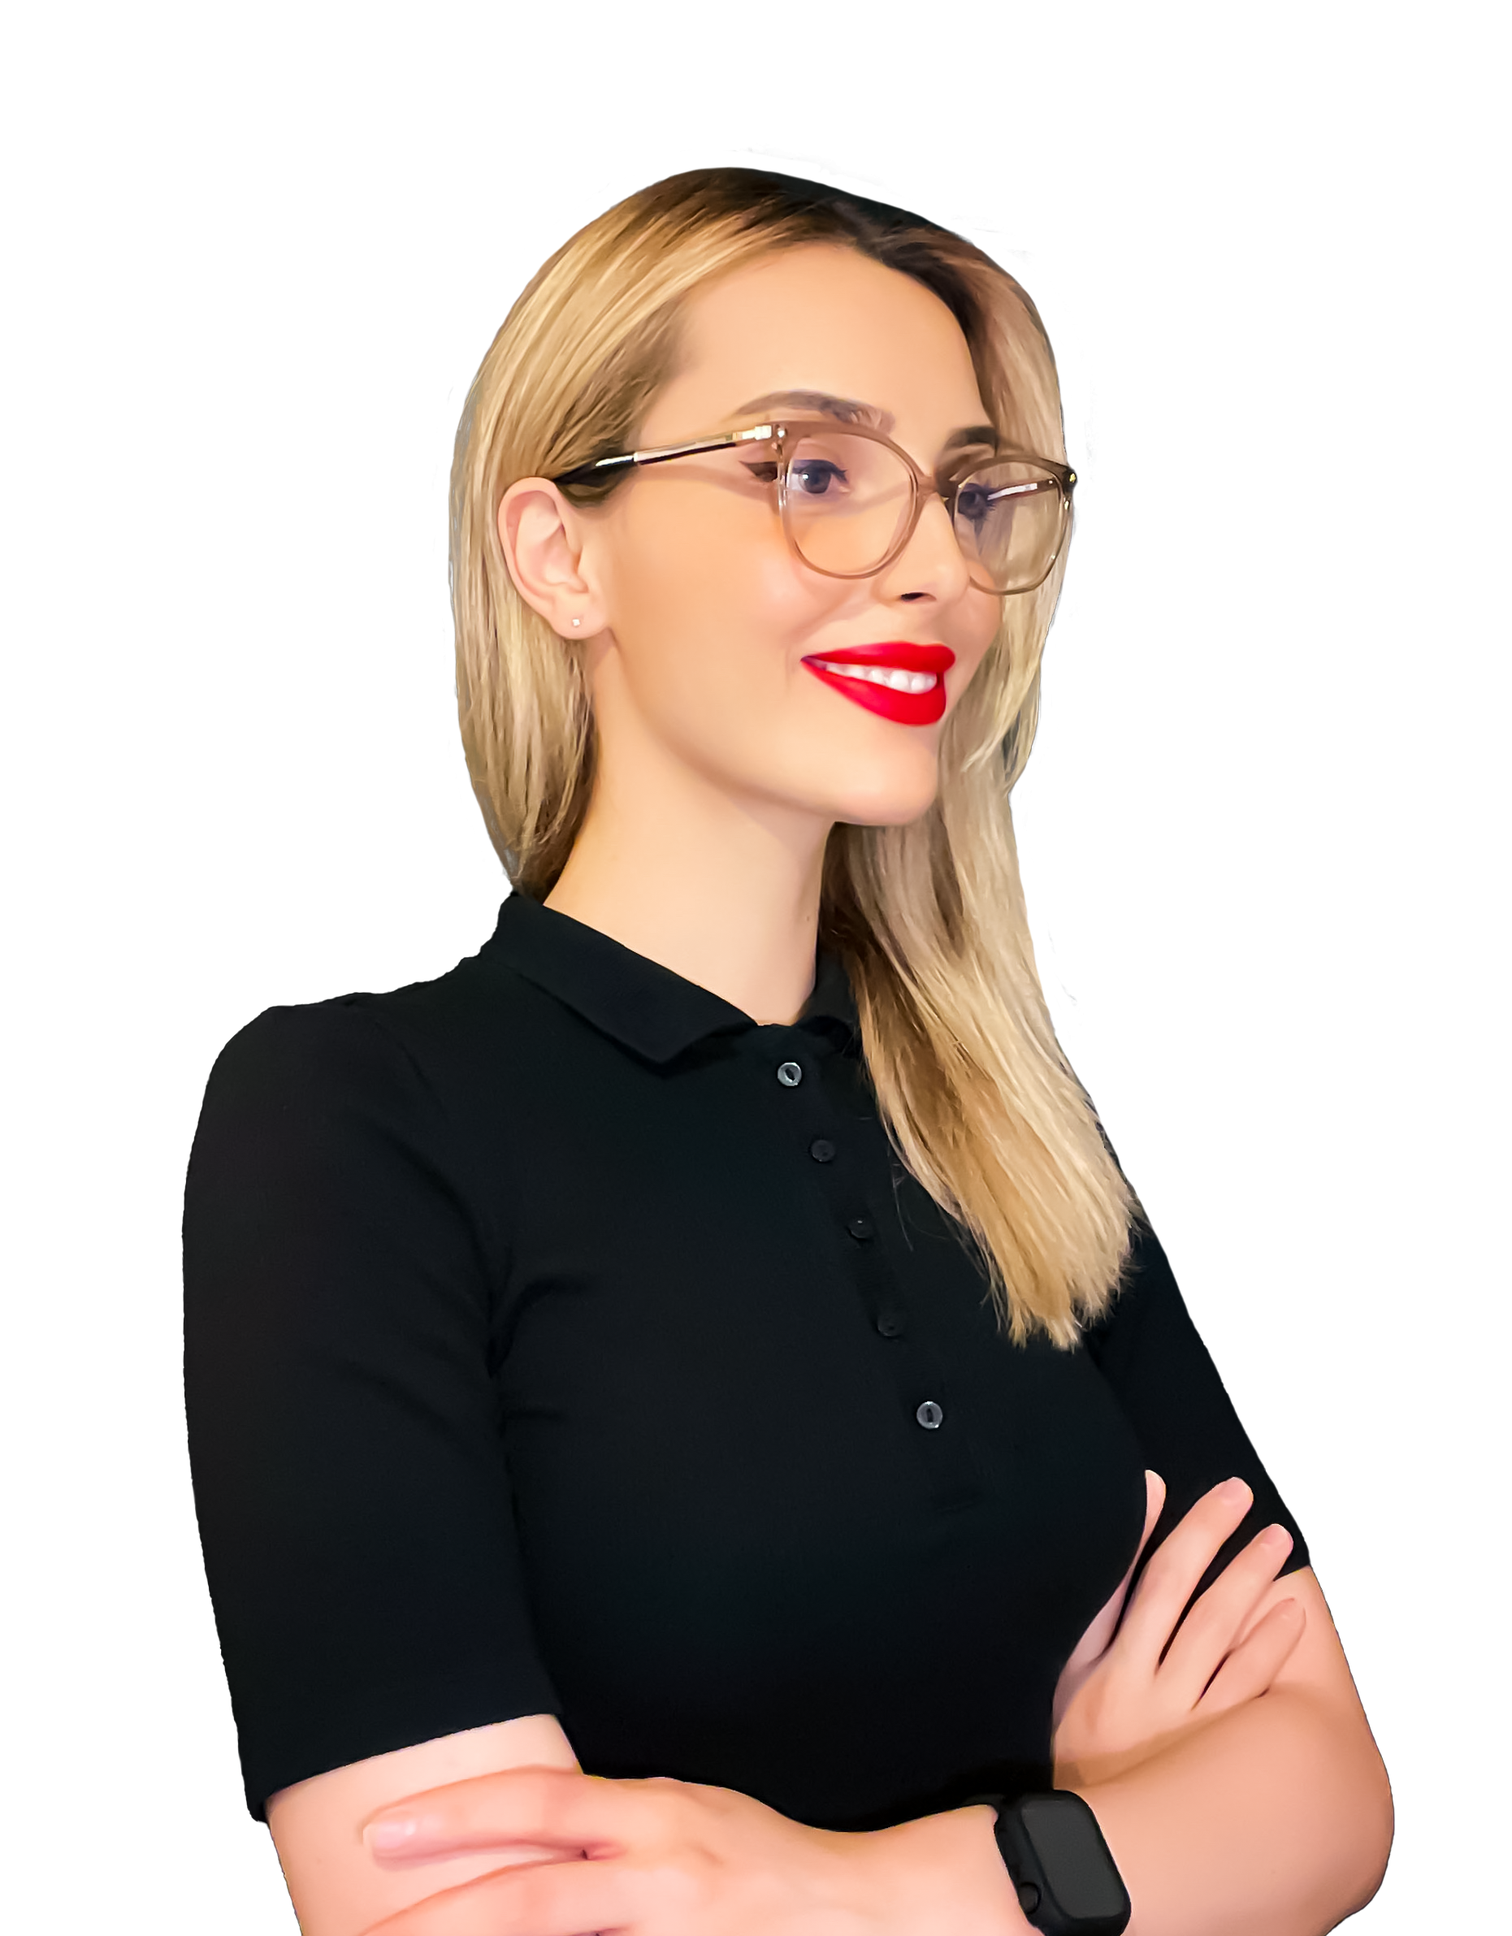
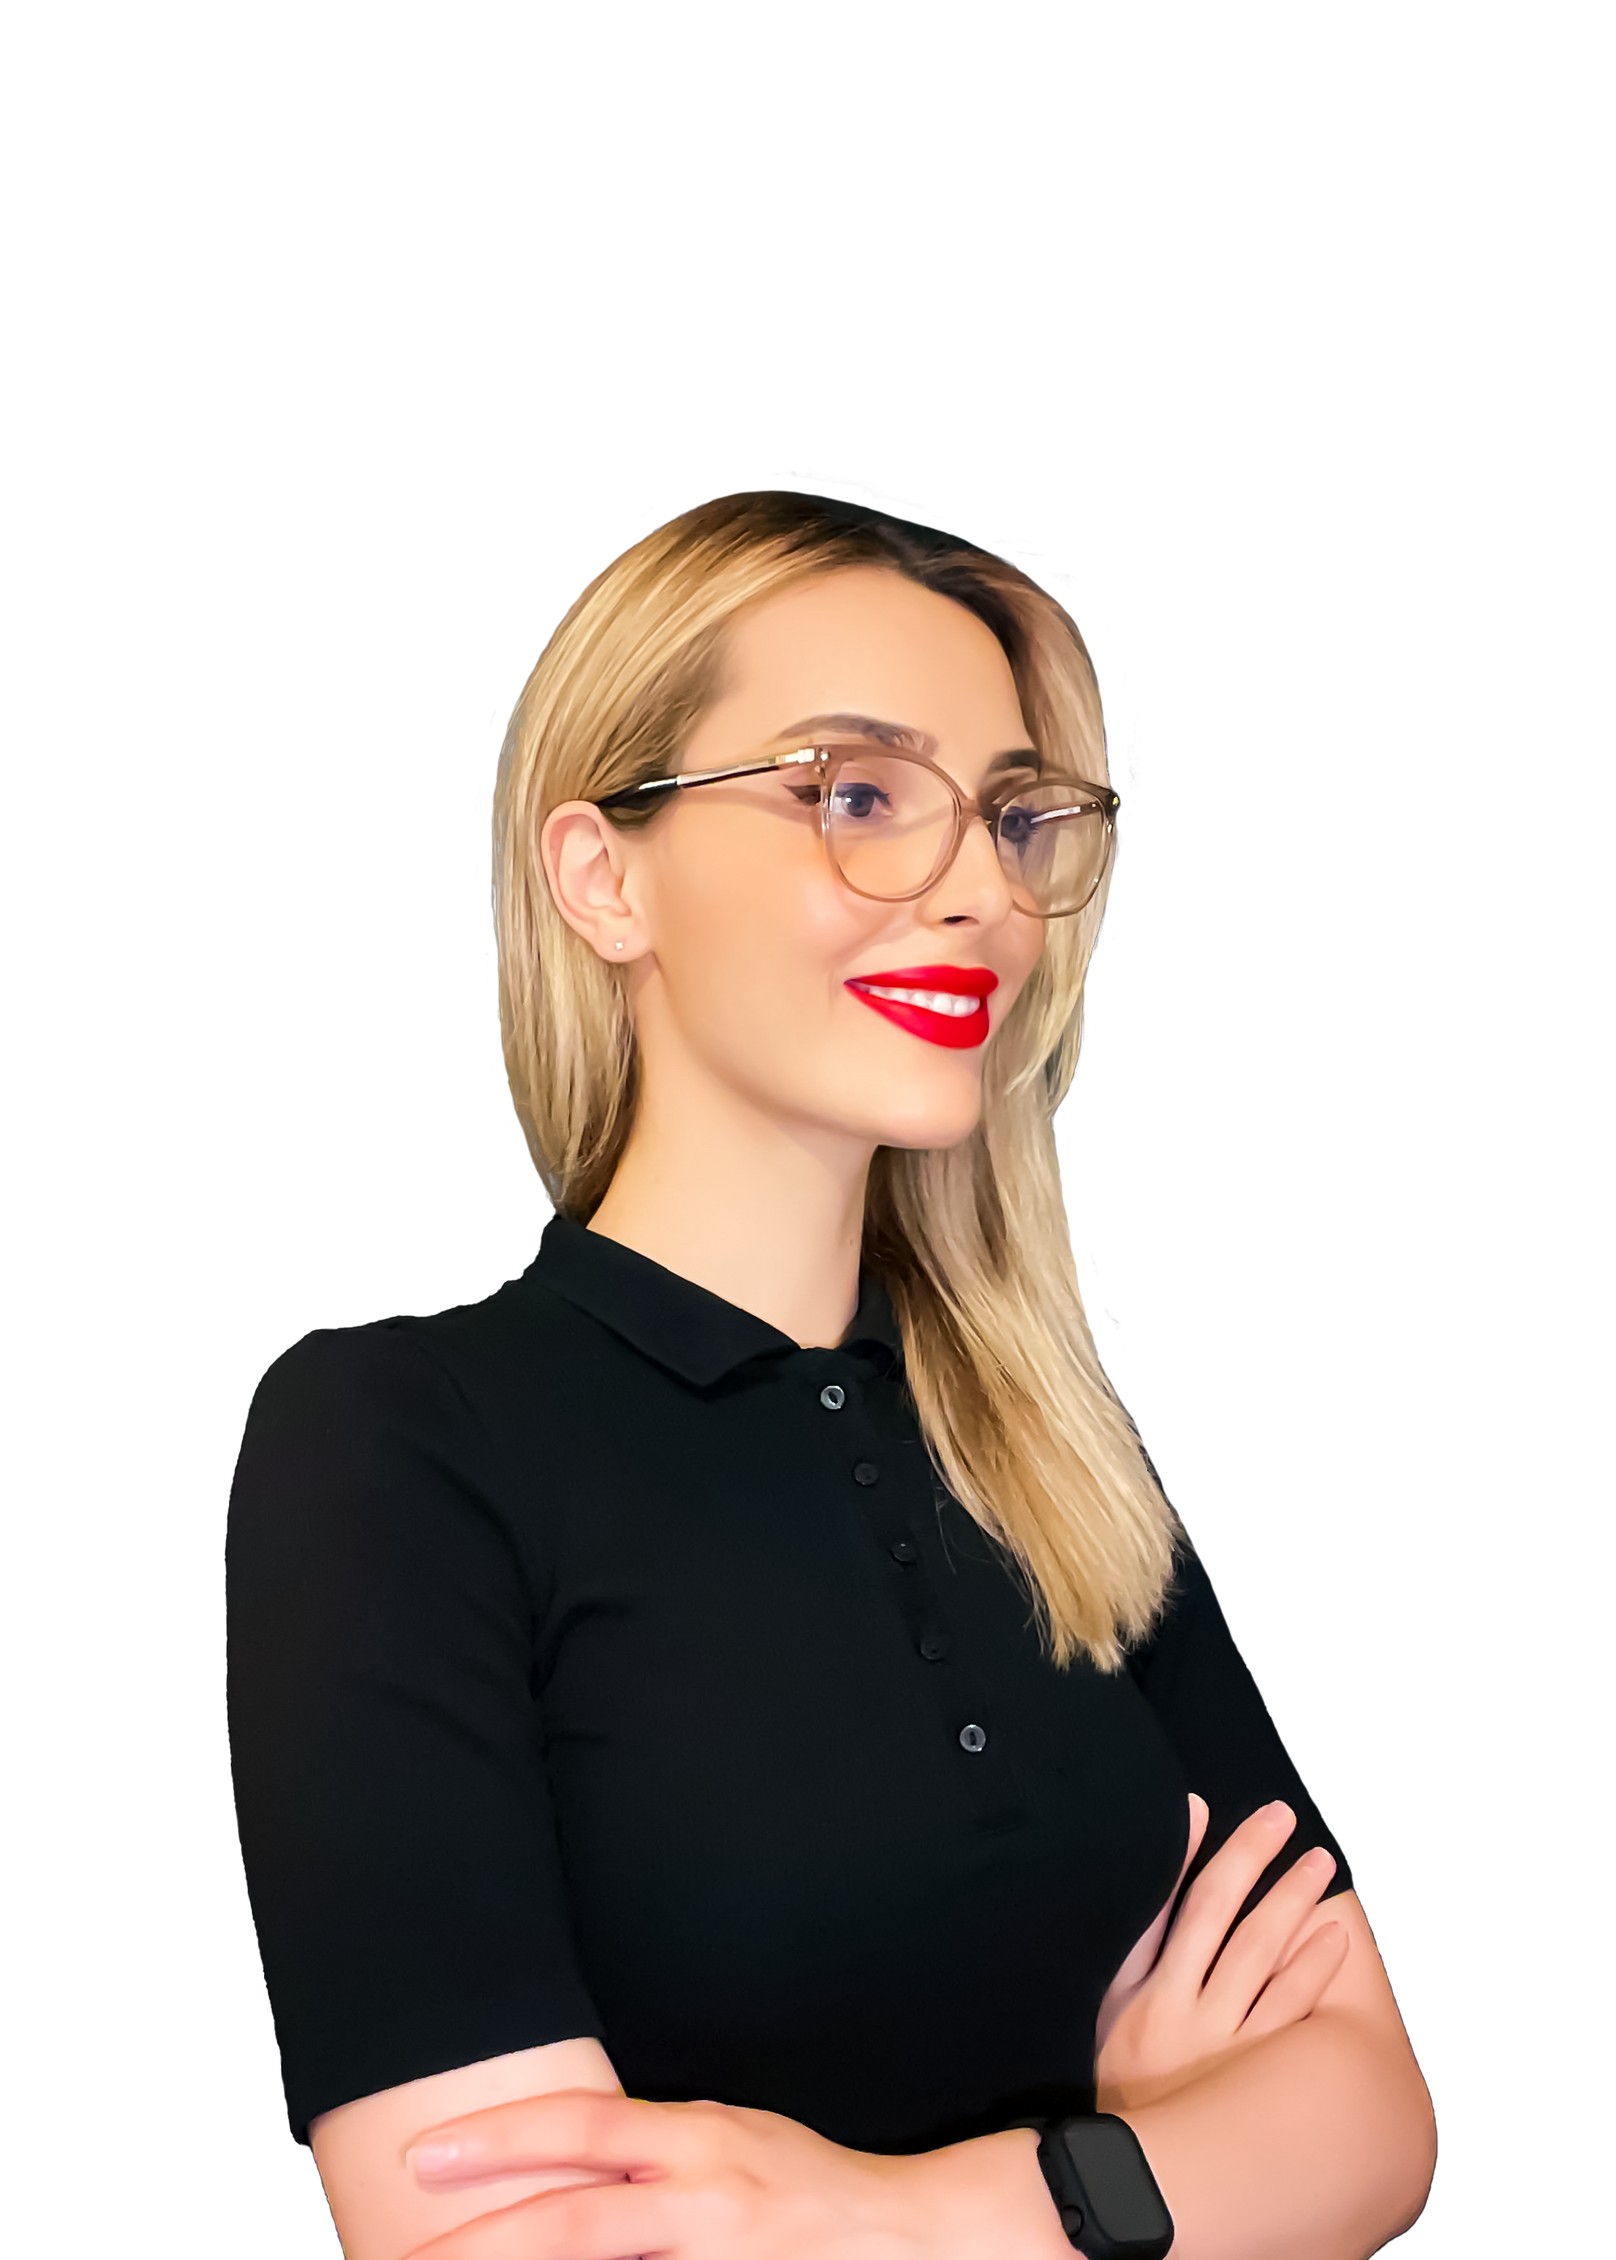
commit 3

Changed region(s): [[0.0935, 0.0621, 0.935, 1.0]]

diff --git a/src/components/About/About.tsx b/src/components/About/About.tsx
@@ -1,10 +1,11 @@
 import React from 'react';
 import './About.css';
-import photo from '../../assets/photo.png';
+import photo from '../../assets/photo 2.png';
 
 const About: React.FC = () => {
     return (
         <section id="about" className="about-section">
+
             <div className="about-container animate-slide-in">
                 <div className="photo-container">
                     <img src={photo} alt="My Photo" />
@@ -12,7 +13,7 @@ const About: React.FC = () => {
                 <div className="about-me">
                     <h1>Hi, I'm Marina.</h1>
                     <h2>Full Stack Web Developer</h2>
-                    <p>"Lorem ipsum dolor sit amet, consectetur adipiscing elit. Nulla pretium sem non diam consequat, et ullamcorper mauris facilisis. Fusce ut est et enim rhoncus vulputate vel sed nisl. Maecenas id diam id ipsum hendrerit interdum. Ut cursus urna nec fermentum aliquam. Pellentesque habitant morbi tristique senectus et netus et malesuada fames ac turpis egestas. Sed non bibendum nulla. Suspendisse sed felis velit. Fusce semper odio a tellus tincidunt, in vestibulum nulla gravida. Vestibulum eu mauris vel erat elementum scelerisque at a metus. Sed convallis purus in justo consectetur eleifend."</p>
+                    <div className="p-div"><p>"Lorem ipsum dolor sit amet, consectetur adipiscing elit. Nulla pretium sem non diam consequat, et ullamcorper mauris facilisis. Fusce ut est et enim rhoncus vulputate vel sed nisl. Maecenas id diam id ipsum hendrerit interdum. Ut cursus urna nec fermentum aliquam. Pellentesque habitant morbi tristique senectus et netus et malesuada fames ac turpis egestas. Sed non bibendum nulla."</p></div>
                     <div className="button-container">
                         <a href="/contact" className="contact-link">
                             <button className="contact-button">CONTACT ME</button>
@@ -21,6 +22,7 @@ const About: React.FC = () => {
                     </div>
                 </div>
             </div>
+
         </section>
     );
 };

diff --git a/src/components/About/About.css b/src/components/About/About.css
@@ -1,11 +1,11 @@
 .about-section {
-    height: 100vh;
     display: flex;
     align-items: center;
     justify-content: center;
     color: white;
-    margin-top: 20px;
     font-family: Arial;
+    height: 100vh;
+
 }
 
 .about-container {
@@ -21,13 +21,16 @@
     box-shadow: 0 0  10px #16161c;
     display: flex;
     align-items: center;
-    height: 70%;
+    height: 70vh;
     width: 90%;
     padding: 0 20px;
+    min-height: 500px;
 }
 
 .button-container {
     margin-top: 50px;
+    height: 50px;
+    width: 150px;
 }
 
 @keyframes slideInRight {
@@ -43,21 +46,21 @@
     height: 70vh;
 
 }
-
+.photo-container {
+    min-height: 200px;
+}
 .about-me {
     display: flex;
     flex-direction: column;
-    /*align-items: center;*/
-    /*justify-content: stretch;*/
-    height: 100%;
-    width: 50%;
+    align-items: flex-start;
+    justify-content: space-evenly;
 
 }
 
 .about-me h1 {
     font-size: 42px;
     font-weight: lighter;
-    margin-top: 150px;
+    margin-top: 70px;
     margin-bottom: 30px;
 
 }
@@ -68,7 +71,7 @@
     /*margin: 20px;*/
 }
 
-.about-me p {
+.p-div {
     font-size: 20px;
     margin-right: 20px;
     margin-top: 20px;
@@ -109,6 +112,7 @@
     .photo-container img {
         height: 60vh;
         box-shadow: 0 0 5px black;
+
     }
 }
 

diff --git a/src/App.css b/src/App.css
@@ -1,10 +1,11 @@
-
 body {
     background-size: 100% 200%;
     background: linear-gradient(to right,
     rgba(10, 10, 10, 0.96),
     rgba(33, 33, 33, 0.96),
     rgba(10, 10, 10, 0.96)) no-repeat;
+
+
 }
 
 .page-container {
@@ -13,6 +14,8 @@ body {
     background-size: cover;
     background-attachment: fixed;
     background-position: bottom;
+
+
 
 }
 * {

diff --git a/src/components/Skills/Skills.css b/src/components/Skills/Skills.css
@@ -5,6 +5,7 @@
     font-family: Arial;
     color: white;
     height: 100vh;
+
 }
 
 .skills-container-main {
